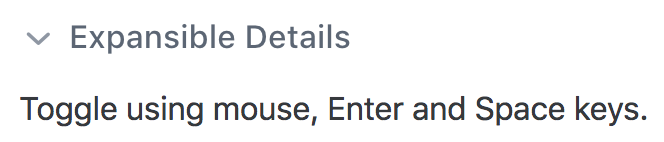
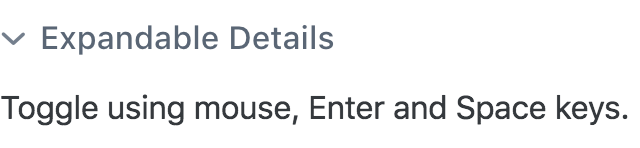
chore: align example screenshot with code snippet [skip ci]

Changed region(s): [[0.0, 0.6479, 1.0, 0.9014], [0.0, 0.169, 0.5312, 0.3662]]

diff --git a/README.md b/README.md
@@ -32,7 +32,7 @@
 </vaadin-details>
 ```
 
-[<img src="https://raw.githubusercontent.com/vaadin/vaadin-details/master/screenshot.png" alt="Screenshot of vaadin-details" width="332">](https://vaadin.com/components/vaadin-details)
+[<img src="https://raw.githubusercontent.com/vaadin/vaadin-details/master/screenshot.png" alt="Screenshot of vaadin-details" width="320">](https://vaadin.com/components/vaadin-details)
 
 
 ## Installation
